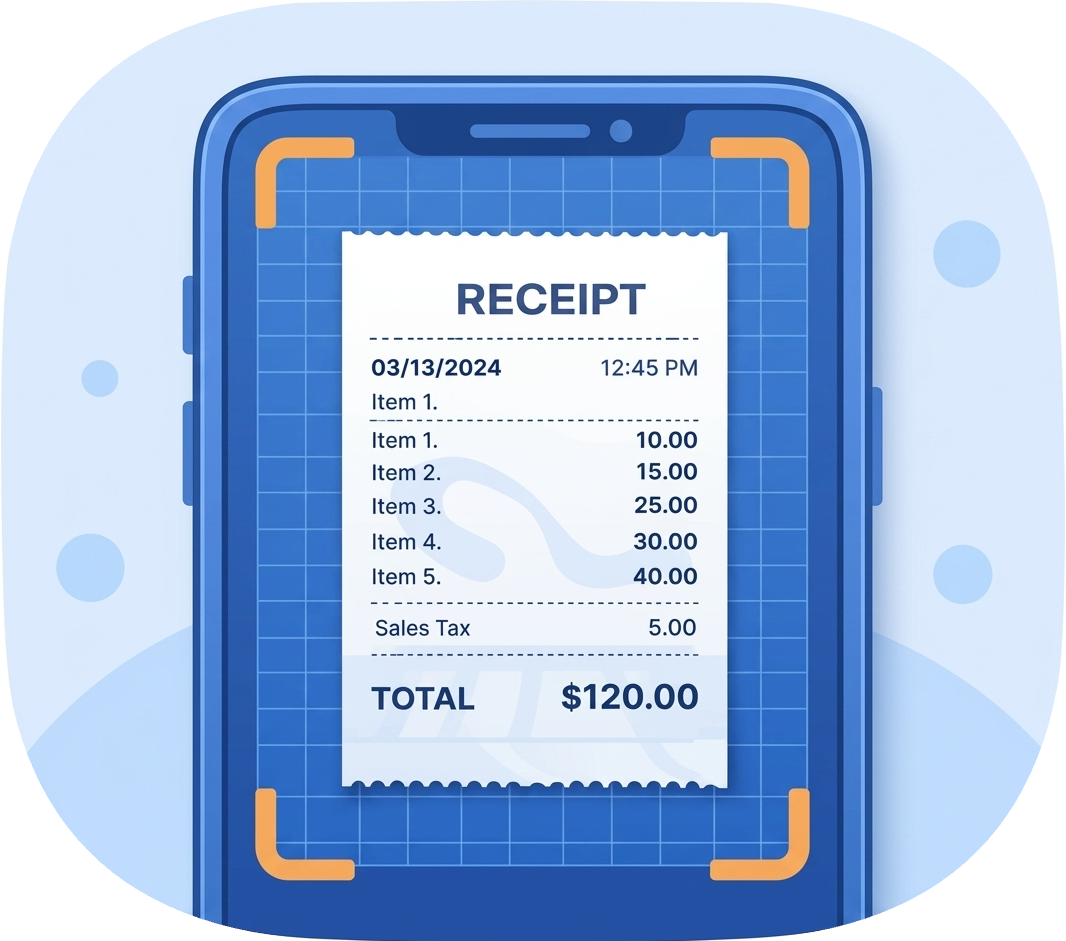
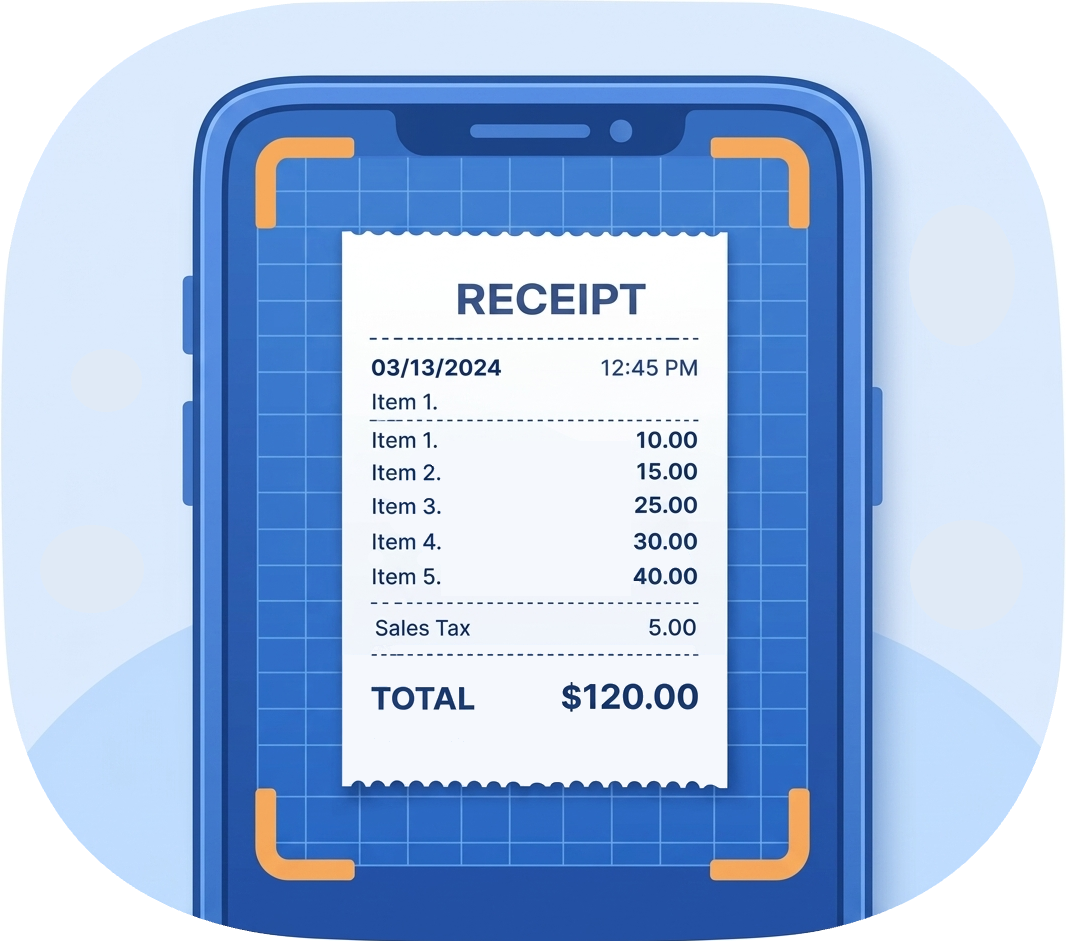
feat: added quick scan shortcut

diff --git a/lib/app_gate.dart b/lib/app_gate.dart
@@ -1,8 +1,16 @@
 import 'package:flutter/material.dart';
+import 'package:flutter_bloc/flutter_bloc.dart';
+
+import 'package:smart_documents_scanner/core/platform/shortcut_service.dart';
+import 'package:smart_documents_scanner/core/services/document_upload_service.dart';
 import 'package:smart_documents_scanner/data/services/storage_service.dart';
 import 'package:smart_documents_scanner/screens/privacy_policy/privacy_policy_dialog.dart';
 import 'package:smart_documents_scanner/shared/tab_bar_widget.dart';
+import 'package:smart_documents_scanner/state_management/bloc/documents_bloc.dart';
+import 'package:smart_documents_scanner/state_management/bloc/documents_event.dart';
 
+/// Performs initial checks such as privacy policy acceptance
+/// and handles startup actions (Quick Scan shortcut).
 class AppGateScreen extends StatefulWidget {
   const AppGateScreen({super.key});
 
@@ -21,6 +29,7 @@ class _AppGateScreenState extends State<AppGateScreen> {
 
   Future<void> _init() async {
     final storage = AppStorage();
+    final shouldStartQuickScan = await ShortcutService.shouldStartQuickScan();
     final accepted = await storage.hasAcceptedPrivacy();
 
     if (!mounted) return;
@@ -31,7 +40,23 @@ class _AppGateScreenState extends State<AppGateScreen> {
 
     if (!mounted) return;
 
-    setState(() => _isAppReady = true);
+    setState(() {
+      _isAppReady = true;
+    });
+
+    if (shouldStartQuickScan) {
+      WidgetsBinding.instance.addPostFrameCallback((_) {
+        _startQuickScan();
+      });
+    }
+  }
+
+  Future<void> _startQuickScan() async {
+    final document = await DocumentUploadService.scan(context);
+
+    if (!mounted || document == null) return;
+
+    context.read<DocumentsBloc>().add(SaveDocument(document: document));
   }
 
   @override

diff --git a/lib/core/services/document_upload_service.dart b/lib/core/services/document_upload_service.dart
@@ -1,13 +1,13 @@
 import 'dart:typed_data';
-
+import 'package:uuid/uuid.dart';
 import 'package:flutter/material.dart';
+
 import 'package:smart_documents_scanner/core/models/document.dart';
 import 'package:smart_documents_scanner/core/models/document_file_extension.dart';
 import 'package:smart_documents_scanner/core/utils/document_file_utils.dart';
 import 'package:smart_documents_scanner/data/db/app_database.dart';
 import 'package:smart_documents_scanner/screens/scan_camera/scan_camera_screen.dart';
 import 'package:smart_documents_scanner/core/utils/file_utils.dart';
-import 'package:uuid/uuid.dart';
 
 class DocumentUploadService {
   static Future<DocumentData?> scan(BuildContext context) async {
@@ -18,7 +18,7 @@ class DocumentUploadService {
 
     if (imagePath == null) return null;
 
-    return createDocumentFromImagePath(imagePath);
+    return createDocumentFromImagePath(imagePath, documentDefaultName);
   }
 
   static Future<DocumentData?> upload() async {
@@ -38,13 +38,18 @@ class DocumentUploadService {
   }
 
   static Future<DocumentData?> createDocumentFromImagePath(
-    String imagePath,
-  ) async {
+    String imagePath, [
+    String? imageName,
+  ]) async {
     final bytes = await imageToBytes(imagePath);
     final extension = getFileExtension(imagePath);
-    final name = getFileNameWithoutExtension(imagePath);
+    final name = imageName ?? getFileNameWithoutExtension(imagePath);
 
-    return _createDocument(bytes: bytes, extension: extension, documentName: name);
+    return _createDocument(
+      bytes: bytes,
+      extension: extension,
+      documentName: name,
+    );
   }
 
   static Future<DocumentData?> _createDocument({

diff --git a/android/app/src/main/kotlin/com/example/smart_documents_scanner/MainActivity.kt b/android/app/src/main/kotlin/com/example/smart_documents_scanner/MainActivity.kt
@@ -1,6 +1,8 @@
 package com.viktsukan.docscanner
 
+import android.content.Intent
 import android.os.Bundle
+import com.viktsukan.docscanner.channels.QuickScanChannel
 import com.viktsukan.docscanner.channels.SharedImageChannel
 import com.viktsukan.docscanner.channels.SimCountryChannel
 import com.viktsukan.docscanner.share.ShareImageHandler
@@ -24,11 +26,23 @@ class MainActivity : FlutterActivity() {
             flutterEngine,
             shareImageHandler,
         )
+
+        QuickScanChannel.register(
+            flutterEngine,
+        )
     }
 
-    override fun onCreate(savedInstanceState: android.os.Bundle?) {
+    override fun onCreate(savedInstanceState: Bundle?) {
         super.onCreate(savedInstanceState)
 
         shareImageHandler.handleIntent(intent)
+        QuickScanChannel.handleIntent(intent)
+    }
+
+    override fun onNewIntent(intent: Intent) {
+        super.onNewIntent(intent)
+
+        shareImageHandler.handleIntent(intent)
+        QuickScanChannel.handleIntent(intent)
     }
 }

diff --git a/android/app/src/main/kotlin/com/example/smart_documents_scanner/channels/QuickScanChannel.kt b/android/app/src/main/kotlin/com/example/smart_documents_scanner/channels/QuickScanChannel.kt
@@ -1,0 +1,33 @@
+package com.viktsukan.docscanner.channels
+
+import android.content.Intent
+import io.flutter.embedding.engine.FlutterEngine
+import io.flutter.plugin.common.MethodChannel
+
+object QuickScanChannel {
+    private const val CHANNEL = "quick_scan"
+    private const val QUICK_SCAN_ACTION =
+        "com.viktsukan.docscanner.QUICK_SCAN"
+
+    private var shouldStartQuickScan = false
+
+    fun handleIntent(intent: Intent?) {
+        shouldStartQuickScan =
+            intent?.action == QUICK_SCAN_ACTION
+    }
+
+    fun register(flutterEngine: FlutterEngine) {
+        MethodChannel(
+            flutterEngine.dartExecutor.binaryMessenger,
+            CHANNEL,
+        ).setMethodCallHandler { call, result ->
+            when (call.method) {
+                "shouldStartQuickScan" -> {
+                    result.success(shouldStartQuickScan)
+                    shouldStartQuickScan = false
+                }
+                else -> result.notImplemented()
+            }
+        }
+    }
+}

diff --git a/lib/screens/documents/documents_screen.dart b/lib/screens/documents/documents_screen.dart
@@ -3,7 +3,7 @@ import 'package:flutter_bloc/flutter_bloc.dart';
 import 'package:easy_localization/easy_localization.dart';
 
 import 'package:smart_documents_scanner/core/models/document.dart';
-import 'package:smart_documents_scanner/core/services/share_service.dart';
+import 'package:smart_documents_scanner/core/platform/share_service.dart';
 import 'package:smart_documents_scanner/screens/documents/import_image_bottom_sheet.dart';
 import 'package:smart_documents_scanner/shared/bottom_sheets/add_document_bottom_sheet.dart';
 import 'package:smart_documents_scanner/core/services/document_upload_service.dart';

diff --git a/lib/core/utils/locale_utils.dart b/lib/core/utils/locale_utils.dart
@@ -1,6 +1,6 @@
 import 'package:flutter/material.dart';
 import 'package:smart_documents_scanner/core/models/language.dart';
-import 'package:smart_documents_scanner/core/services/sim_country_service.dart';
+import 'package:smart_documents_scanner/core/platform/sim_country_service.dart';
 import 'package:smart_documents_scanner/data/services/storage_service.dart';
 
 Future<Locale> resolveLocale(Locale locale) async {

diff --git a/lib/core/platform/shortcut_service.dart b/lib/core/platform/shortcut_service.dart
@@ -1,0 +1,13 @@
+import 'package:flutter/services.dart';
+
+class ShortcutService {
+  static const _quickScanChannel = MethodChannel('quick_scan');
+
+  static Future<bool> shouldStartQuickScan() async {
+    final result = await _quickScanChannel.invokeMethod<bool>(
+      'shouldStartQuickScan',
+    );
+
+    return result ?? false;
+  }
+}
